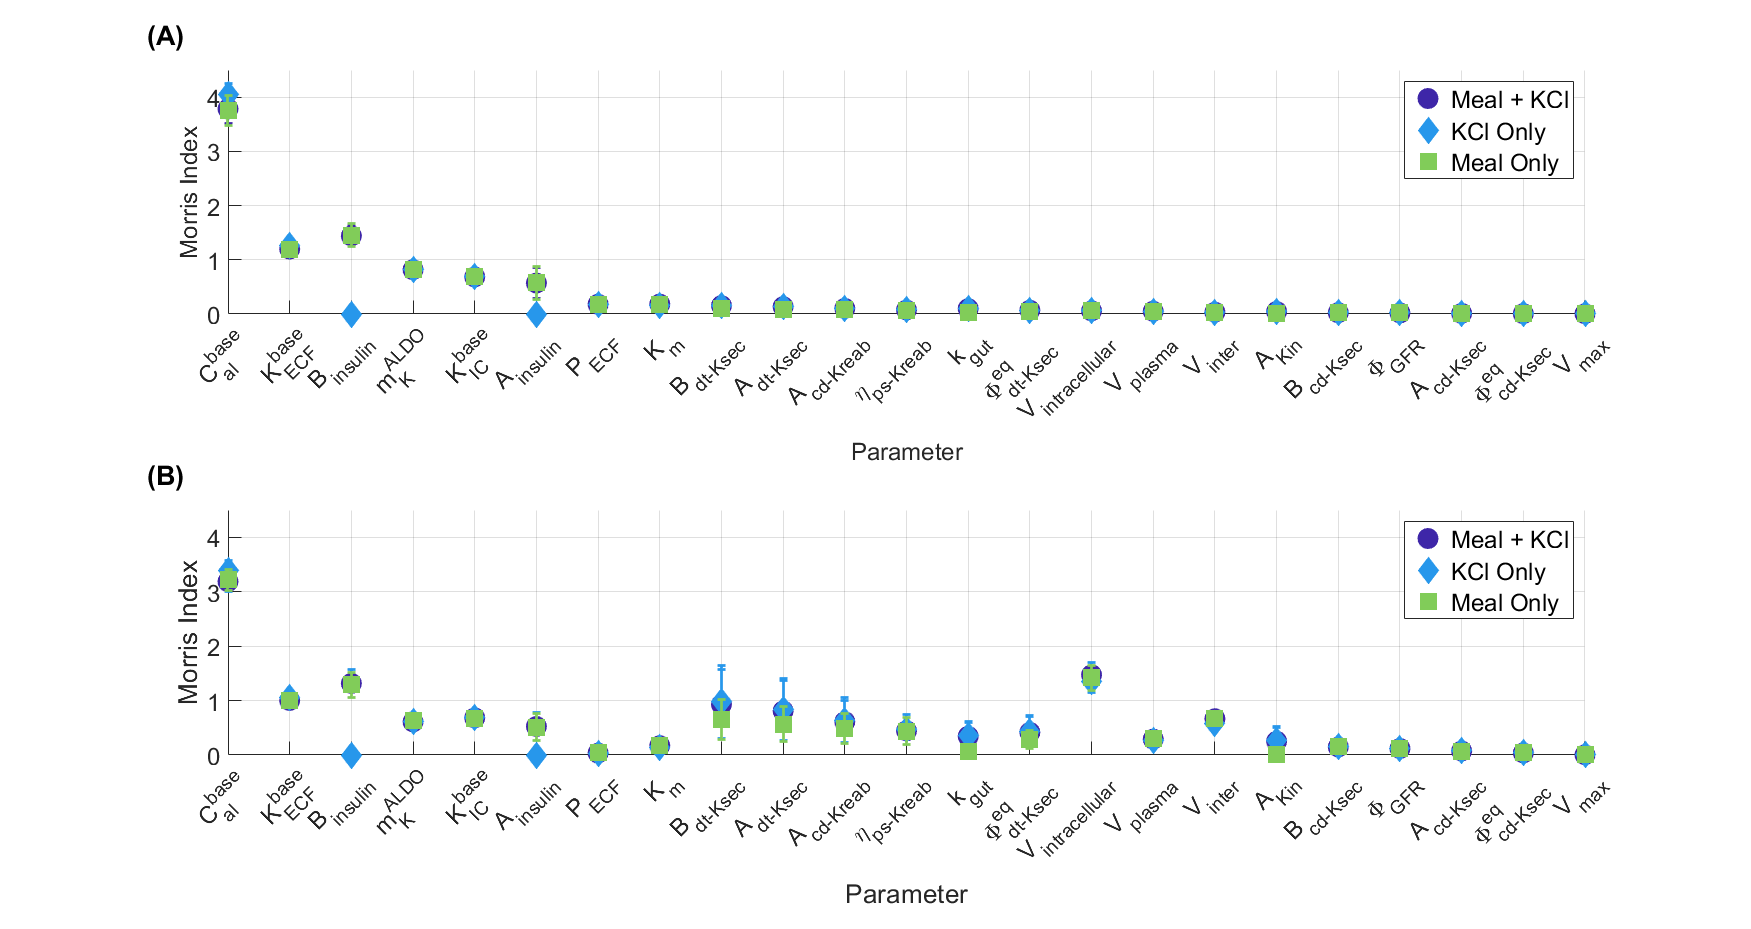
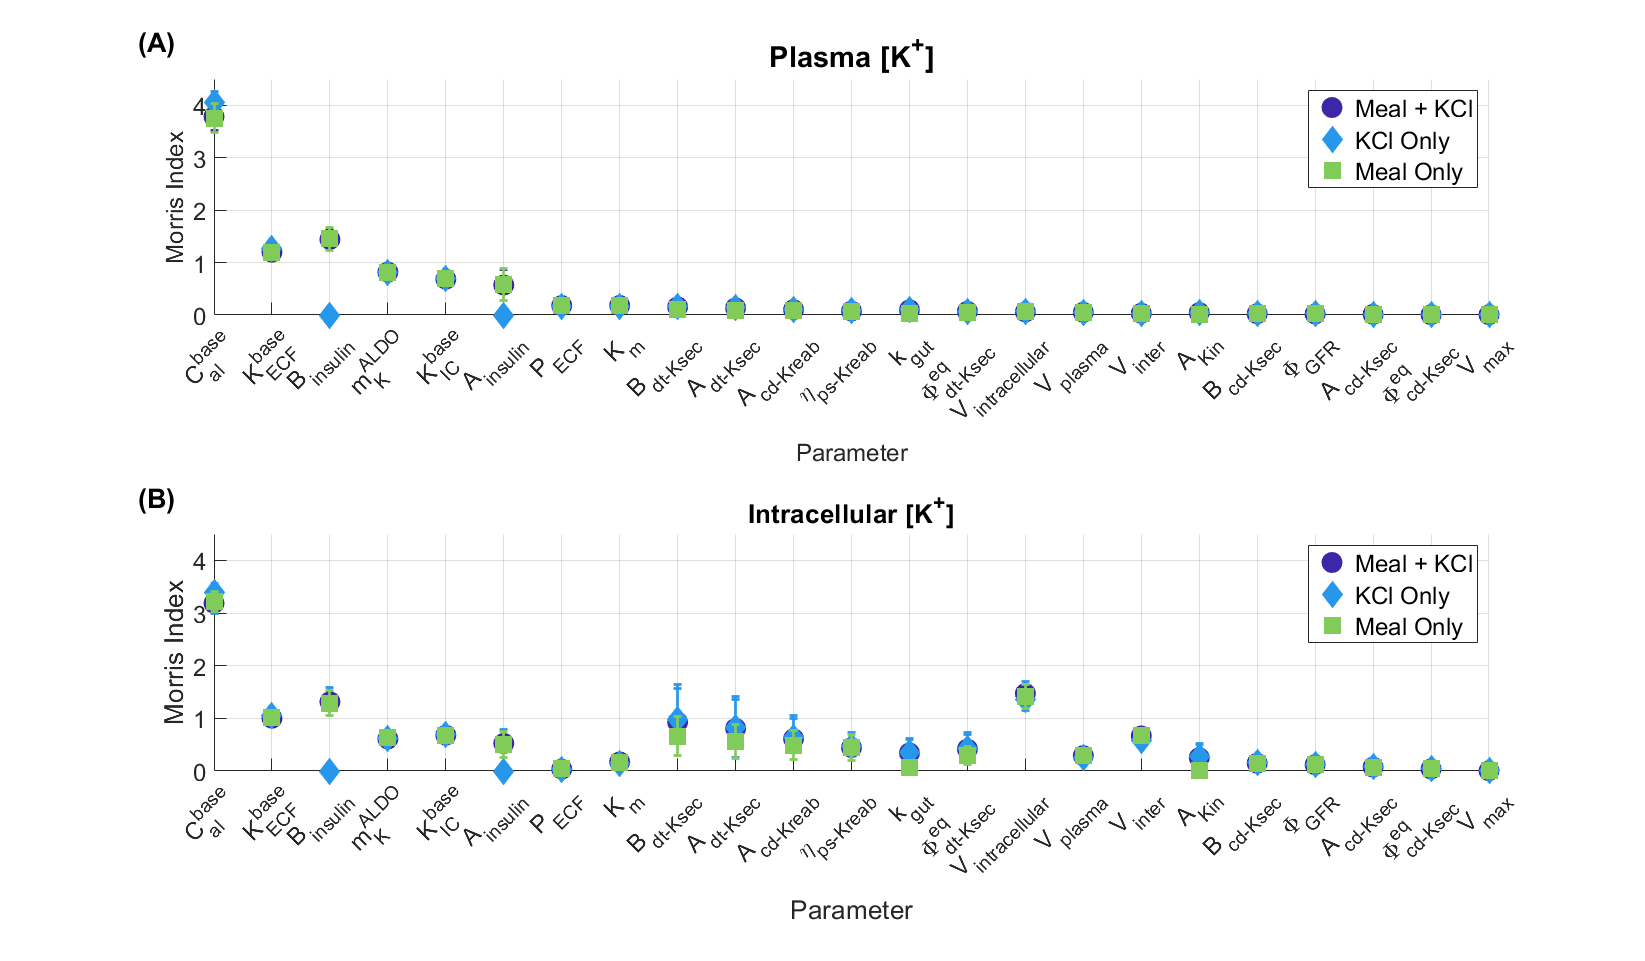
change fig

diff --git a/Figures/plot_MI_allmeal.m b/Figures/plot_MI_allmeal.m
@@ -120,7 +120,7 @@ end
 figure(1)
 clf
 marksize = 15;
-fleg = 18; fx = 18; fy = 18;
+fleg = 18; fx = 18; fy = 18; ft = 22;
 cmap = parula(4);
 c1 = cmap(1,:);
 c2 = cmap(2,:);
@@ -158,6 +158,7 @@ ylim([0.0,4.5])
 xticks(1:23)
 xticklabels(parnames_plt_sort)
 xlim([1,23])
+title('Plasma [K^+]', 'fontsize', ft)
 grid on
 
 subplot(nr,nc,2)
@@ -189,6 +190,7 @@ xticks(1:23)
 xticklabels(parnames_plt_sort)
 xlim([1,23])
 ylim([0.0,4.5])
+title('Intracellular [K^+]')
 grid on
 
 AddLetters2Plots(figure(1), {'(A)', '(B)'},...
